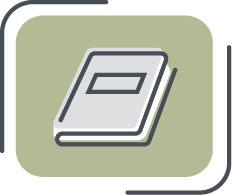
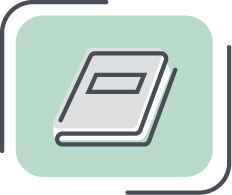
Substitui assets do curso anterior

diff --git a/src/css/style.css b/src/css/style.css
@@ -3491,12 +3491,12 @@ article h1 {
 }
 
 .styled-list strong {
-  color: hsl(70, 37%, 36%);
+  color: hsl(154, 30%, 63%);
   font-weight: 700;
 }
 
 .styled-link {
-  color: hsl(70, 37%, 36%);
+  color: hsl(154, 30%, 63%);
   font-weight: 700;
   text-decoration: none;
   cursor: pointer;
@@ -3516,7 +3516,7 @@ article h1 {
   z-index: 3;
   color: #212121;
   box-shadow: 0px 10px 10px rgba(136, 136, 136, 0.3333333333);
-  background-image: url("../img/moodleface/Paternidade_topLine.png");
+  background-image: url("../img/moodleface/topLine.png");
   background-size: 100vw;
   background-position: center;
 }
@@ -3699,7 +3699,7 @@ article h1 {
   margin: 0;
 }
 .callout a {
-  color: hsl(70, 37%, 36%);
+  color: hsl(154, 30%, 63%);
 }
 .callout a:hover {
   text-decoration: underline;
@@ -3714,13 +3714,13 @@ article h1 {
   font-weight: normal;
   padding: 1rem;
   border-radius: 4px;
-  background-color: hsl(70, 37%, 56%);
+  background-color: hsl(154, 30%, 83%);
   box-shadow: 0px 0px 10px rgba(136, 136, 136, 0.3333333333);
 }
 
 .popover-button {
   font-weight: bold;
-  color: hsl(70, 37%, 26%);
+  color: hsl(154, 30%, 48%);
   cursor: pointer;
 }
 
@@ -3733,12 +3733,12 @@ article h1 {
   gap: 1rem;
   padding: 0.5rem 3rem;
   border-radius: 0.5rem;
-  border-left: 3px solid hsl(70, 37%, 56%);
+  border-left: 3px solid hsl(154, 30%, 83%);
   font-style: italic;
 }
 .quote > i {
   font-size: 2rem;
-  color: hsl(70, 37%, 46%);
+  color: hsl(154, 30%, 73%);
 }
 .quote > i:first-child {
   align-self: flex-start;
@@ -3810,7 +3810,7 @@ article h1 {
 .credit-container {
   margin: 1rem 0;
   padding: 2rem;
-  background-color: hsl(70, 37%, 86%);
+  background-color: hsl(154, 30%, 98%);
   border-radius: 12px;
 }
 .credit-container .credit-title {
@@ -3837,7 +3837,7 @@ article h1 {
 .highlight {
   padding: 1rem;
   padding-top: 0;
-  border: 1px dashed hsl(70, 37%, 36%);
+  border: 1px dashed hsl(154, 30%, 63%);
   border-radius: 16px;
 }
 .highlight h2 {
@@ -3859,7 +3859,7 @@ article h1 {
   position: absolute;
   height: 40px;
   width: 70%;
-  background-color: hsl(70, 37%, 66%);
+  background-color: hsl(154, 30%, 93%);
   border-top-right-radius: 20px;
   border-bottom-right-radius: 20px;
 }

diff --git a/src/tomada-de-opiniao.html b/src/tomada-de-opiniao.html
@@ -47,7 +47,7 @@
         <a href="https://unasus-cp.moodle.ufsc.br/mod/resource/view.php?id=9033" target="_blank">
           Guia do curso
         </a>
-        <a href="https://unasus-cp.moodle.ufsc.br/mod/questionnaire/view.php?id=8855"
+        <a href="https://unasus-cp.moodle.ufsc.br/mod/questionnaire/view.php?id=8909"
           target="_blank">
           Tomada de opinião
         </a>
@@ -89,23 +89,23 @@
     <button onclick="navigate('back')"><img src="img/nav/buttonBack.png" alt="Voltar"></button>
     <div>
       <a href="sobre-o-curso.html">
-        <img src="img/nav/SaudeTrab_sobreCursoColor.png" alt="Sobre o curso">
+        <img src="img/nav/intercorrencias_sobreCursoColor.png" alt="Sobre o curso">
       </a>
       <div class="line"></div>
       <a href="desafio.html">
-        <img src="img/nav/SaudeTrab_desafioColor.png" alt="Desafio">
+        <img src="img/nav/intercorrencias_desafioColor.png" alt="Desafio">
       </a>
       <div class="line"></div>
       <a href="unidade-1.html">
-        <img src="img/nav/SaudeTrab_interagindoColor.png" alt="Unidade 1">
+        <img src="img/nav/intercorrencias_interagindoColor.png" alt="Unidade 1">
       </a>
       <div class="line"></div>
       <a href="reconhecendo-a-realidade.html">
-        <img src="img/nav/SaudeTrab_recARealidadeColor.png" alt="Reconhecendo a realidade">
+        <img src="img/nav/intercorrencias_reconhecendoRealidadeColor.png" alt="Reconhecendo a realidade">
       </a>
       <div class="line"></div>
       <a href="questoes-avaliativas.html">
-        <img src="img/nav/SaudeTrab_questoesAvalColor.png" alt="Questões avaliativas">
+        <img src="img/nav/intercorrencias_questoesAvalColor.png" alt="Questões avaliativas">
       </a>
       <div class="line"></div>
       <a href="tomada-de-opiniao.html">

diff --git a/src/moodleface.html b/src/moodleface.html
@@ -40,7 +40,7 @@
         z-index: 999;
         color: rgb(70 80 71);
         font-weight: bold;
-        background-image: url('img/moodleface/Paternidade_topLine.png');
+        background-image: url('img/moodleface/topLine.png');
         background-size: 100% 120%;
         background-repeat: no-repeat;
         box-shadow: 0px 10px 10px #88888855;
@@ -319,7 +319,7 @@
         </div>
       </div>
       <div class="col-md-3" style="margin-top: -71px">
-        <img src="img/moodleface/Paternidade_lineResumo.png" alt="" width="100%;"
+        <img src="img/moodleface/lineResumo.png" alt="" width="100%;"
           style="margin-top: -40px; margin-left: -5px !important" class="moodleDireitaTopo" />
         <p style="font-size: 0.75em; margin-top: -10px; color: #474e56" class="textoMoodle">
           Neste curso, abordaremos a relevância da paternidade para a saúde
@@ -331,7 +331,7 @@
           familiares.
           <br />Bons estudos!
         </p>
-        <img src="img/moodleface/Paternidade_lineCurso.png" alt="" width="100%"
+        <img src="img/moodleface/lineCurso.png" alt="" width="100%"
           style="margin-top: -20px; margin-left: -5px !important" class="moodleDireitaEmbaixo" />
 
         <div class="row">
@@ -356,7 +356,7 @@
     </div>
     <div></div>
   </div>
-  <img src="img/moodleface/Paternidade_bottonLine.png" width="100%" height="35px" style="margin-top: -167px"
+  <img src="img/moodleface/bottonLine.png" width="100%" height="35px" style="margin-top: -167px"
     class="barrainferior" />
 </body>
 

diff --git a/src/questoes-avaliativas.html b/src/questoes-avaliativas.html
@@ -89,23 +89,23 @@
     <button onclick="navigate('back')"><img src="img/nav/buttonBack.png" alt="Voltar"></button>
     <div>
       <a href="sobre-o-curso.html">
-        <img src="img/nav/SaudeTrab_sobreCursoColor.png" alt="Sobre o curso">
+        <img src="img/nav/intercorrencias_sobreCursoColor.png" alt="Sobre o curso">
       </a>
       <div class="line"></div>
       <a href="desafio.html">
-        <img src="img/nav/SaudeTrab_desafioColor.png" alt="Desafio">
+        <img src="img/nav/intercorrencias_desafioColor.png" alt="Desafio">
       </a>
       <div class="line"></div>
       <a href="unidade-1.html">
-        <img src="img/nav/SaudeTrab_interagindoColor.png" alt="Unidade 1">
+        <img src="img/nav/intercorrencias_interagindoColor.png" alt="Unidade 1">
       </a>
       <div class="line"></div>
       <a href="reconhecendo-a-realidade.html">
-        <img src="img/nav/SaudeTrab_recARealidadeColor.png" alt="Reconhecendo a realidade">
+        <img src="img/nav/intercorrencias_reconhecendoRealidadeColor.png" alt="Reconhecendo a realidade">
       </a>
       <div class="line"></div>
       <a href="questoes-avaliativas.html">
-        <img src="img/nav/SaudeTrab_questoesAvalColor.png" alt="Questões avaliativas">
+        <img src="img/nav/intercorrencias_questoesAvalColor.png" alt="Questões avaliativas">
       </a>
       <div class="line"></div>
       <a href="tomada-de-opiniao.html">

diff --git a/src/css/style.scss b/src/css/style.scss
@@ -2,14 +2,14 @@
 
 $capa: url("../img/capa.png");
 
-$main-color: hsl(70, 37%, 36%);
-$main-color--light: hsl(70, 37%, 46%);
-$main-color--lighter: hsl(70, 37%, 56%);
-$main-color--lightest: hsl(70, 37%, 66%);
-$main-color--hyperlight: hsl(70, 37%, 86%);
-$main-color--dark: hsl(70, 37%, 31%);
-$main-color--darker: hsl(70, 37%, 26%);
-$main-color--darkest: hsl(70, 37%, 21%);
+$main-color: hsl(154, 30%, 63%);
+$main-color--light: hsl(154, 30%, 73%);
+$main-color--lighter: hsl(154, 30%, 83%);
+$main-color--lightest: hsl(154, 30%, 93%);
+$main-color--hyperlight: hsl(154, 30%, 98%);
+$main-color--dark: hsl(154, 30%, 53%);
+$main-color--darker: hsl(154, 30%, 48%);
+$main-color--darkest: hsl(154, 30%, 43%);
 
 $secondary-color: hsl(210, 37%, 47%);
 $sumario-title-color: rgb(65, 94, 86);
@@ -123,7 +123,7 @@ article {
   //   $main-color--lightest 50%,
   //   white 100%
   // );
-  background-image: url('../img/moodleface/Paternidade_topLine.png');
+  background-image: url("../img/moodleface/topLine.png");
   background-size: 100vw;
   background-position: center;
 
@@ -446,7 +446,7 @@ article {
   border-bottom-left-radius: 8px;
   border-bottom-right-radius: 8px;
 
-  >:last-child {
+  > :last-child {
     margin-bottom: 0;
   }
 }
@@ -503,7 +503,6 @@ article {
     color: rgb(72, 72, 72);
     font-size: 1.1rem;
   }
-
 }
 /* #endregion */
 

diff --git a/src/reconhecendo-a-realidade.html b/src/reconhecendo-a-realidade.html
@@ -107,19 +107,19 @@
     <button onclick="navigate('back')"><img src="img/nav/buttonBack.png" alt="Voltar"></button>
     <div>
       <a href="sobre-o-curso.html">
-        <img src="img/nav/SaudeTrab_sobreCursoColor.png" alt="Sobre o curso">
+        <img src="img/nav/intercorrencias_sobreCursoColor.png" alt="Sobre o curso">
       </a>
       <div class="line"></div>
       <a href="desafio.html">
-        <img src="img/nav/SaudeTrab_desafioColor.png" alt="Desafio">
+        <img src="img/nav/intercorrencias_desafioColor.png" alt="Desafio">
       </a>
       <div class="line"></div>
       <a href="unidade-1.html">
-        <img src="img/nav/SaudeTrab_interagindoColor.png" alt="Unidade 1">
+        <img src="img/nav/intercorrencias_interagindoColor.png" alt="Unidade 1">
       </a>
       <div class="line"></div>
       <a href="reconhecendo-a-realidade.html">
-        <img src="img/nav/SaudeTrab_recARealidadeColor.png" alt="Reconhecendo a realidade">
+        <img src="img/nav/intercorrencias_reconhecendoRealidadeColor.png" alt="Reconhecendo a realidade">
       </a>
       <div class="line"></div>
       <a href="questoes-avaliativas.html">

diff --git a/src/unidade-1.html b/src/unidade-1.html
@@ -405,15 +405,15 @@
     <button onclick="navigate('back')"><img src="img/nav/buttonBack.png" alt="Voltar"></button>
     <div>
       <a href="sobre-o-curso.html">
-        <img src="img/nav/SaudeTrab_sobreCursoColor.png" alt="Sobre o curso">
+        <img src="img/nav/intercorrencias_sobreCursoColor.png" alt="Sobre o curso">
       </a>
       <div class="line"></div>
       <a href="desafio.html">
-        <img src="img/nav/SaudeTrab_desafioColor.png" alt="Desafio">
+        <img src="img/nav/intercorrencias_desafioColor.png" alt="Desafio">
       </a>
       <div class="line"></div>
       <a href="unidade-1.html">
-        <img src="img/nav/SaudeTrab_interagindoColor.png" alt="Unidade 1">
+        <img src="img/nav/intercorrencias_interagindoColor.png" alt="Unidade 1">
       </a>
       <div class="line"></div>
       <a href="reconhecendo-a-realidade.html">

diff --git a/src/unidade-2.html b/src/unidade-2.html
@@ -432,15 +432,15 @@
     <button onclick="navigate('back')"><img src="img/nav/buttonBack.png" alt="Voltar"></button>
     <div>
       <a href="sobre-o-curso.html">
-        <img src="img/nav/SaudeTrab_sobreCursoColor.png" alt="Sobre o curso">
+        <img src="img/nav/intercorrencias_sobreCursoColor.png" alt="Sobre o curso">
       </a>
       <div class="line"></div>
       <a href="desafio.html">
-        <img src="img/nav/SaudeTrab_desafioColor.png" alt="Desafio">
+        <img src="img/nav/intercorrencias_desafioColor.png" alt="Desafio">
       </a>
       <div class="line"></div>
       <a href="unidade-1.html">
-        <img src="img/nav/SaudeTrab_interagindoColor.png" alt="Unidade 1">
+        <img src="img/nav/intercorrencias_interagindoColor.png" alt="Unidade 1">
       </a>
       <div class="line"></div>
       <a href="reconhecendo-a-realidade.html">

diff --git a/src/css/moodleface.css b/src/css/moodleface.css
@@ -10,7 +10,7 @@
 }
 
 .box-0 {
-  background: url("../img/moodleface/Paternidade_backPersona.png");
+  background: url("../img/moodleface/backPersona.png");
   background-size: 100% 500px;
   background-position: 0px 0px;
   background-repeat: no-repeat;
@@ -222,7 +222,7 @@ a:hover {
     left: 10px;
   }
   .box-0 {
-    background: url("../img/moodleface/Paternidade_backPersona.png");
+    background: url("../img/moodleface/backPersona.png");
     background-size: 100% 720px;
     background-position: 0px 0px;
     background-repeat: no-repeat;
@@ -259,7 +259,7 @@ a:hover {
     font-size: 14px !important;
   }
   .box-0 {
-    background: url("../img/moodleface/Paternidade_backPersona.png");
+    background: url("../img/moodleface/backPersona.png");
     background-size: 100% 750px;
     background-position: 0px 0px;
     background-repeat: no-repeat;

diff --git a/src/unidade-3.html b/src/unidade-3.html
@@ -198,15 +198,15 @@
     </button>
     <div>
       <a href="sobre-o-curso.html">
-        <img src="img/nav/SaudeTrab_sobreCursoColor.png" alt="Sobre o curso" />
+        <img src="img/nav/intercorrencias_sobreCursoColor.png" alt="Sobre o curso" />
       </a>
       <div class="line"></div>
       <a href="desafio.html">
-        <img src="img/nav/SaudeTrab_desafioColor.png" alt="Desafio" />
+        <img src="img/nav/intercorrencias_desafioColor.png" alt="Desafio" />
       </a>
       <div class="line"></div>
       <a href="unidade-1.html">
-        <img src="img/nav/SaudeTrab_interagindoColor.png" alt="Unidade 1" />
+        <img src="img/nav/intercorrencias_interagindoColor.png" alt="Unidade 1" />
       </a>
       <div class="line"></div>
       <a href="reconhecendo-a-realidade.html">

diff --git a/src/desafio.html b/src/desafio.html
@@ -106,11 +106,11 @@
     <button onclick="navigate('back')"><img src="img/nav/buttonBack.png" alt="Voltar"></button>
     <div>
       <a href="sobre-o-curso.html">
-        <img src="img/nav/SaudeTrab_sobreCursoColor.png" alt="Sobre o curso">
+        <img src="img/nav/intercorrencias_sobreCursoColor.png" alt="Sobre o curso">
       </a>
       <div class="line"></div>
       <a href="desafio.html">
-        <img src="img/nav/SaudeTrab_desafioColor.png" alt="Desafio">
+        <img src="img/nav/intercorrencias_desafioColor.png" alt="Desafio">
       </a>
       <div class="line"></div>
       <a href="unidade-1.html">

diff --git a/src/css/moodleface2.scss b/src/css/moodleface2.scss
@@ -9,7 +9,7 @@ main {
   padding: 6rem 2rem 6rem 6rem;
   max-width: 100%;
   // height: 550px;
-  background-image: url("../img/moodleface/Paternidade_backPersona.png");
+  background-image: url("../img/moodleface/backPersona.png");
   background-size: 100% 100%;
   background-repeat: no-repeat;
   font-family: "Rawline", "Open Sans", sans-serif;
@@ -117,6 +117,6 @@ main {
 footer {
   height: 64px;
   width: 100%;
-  background-image: url("../img/moodleface/Paternidade_bottonLine.png");
+  background-image: url("../img/moodleface/bottonLine.png");
   background-size: 100% 100%;
 }
